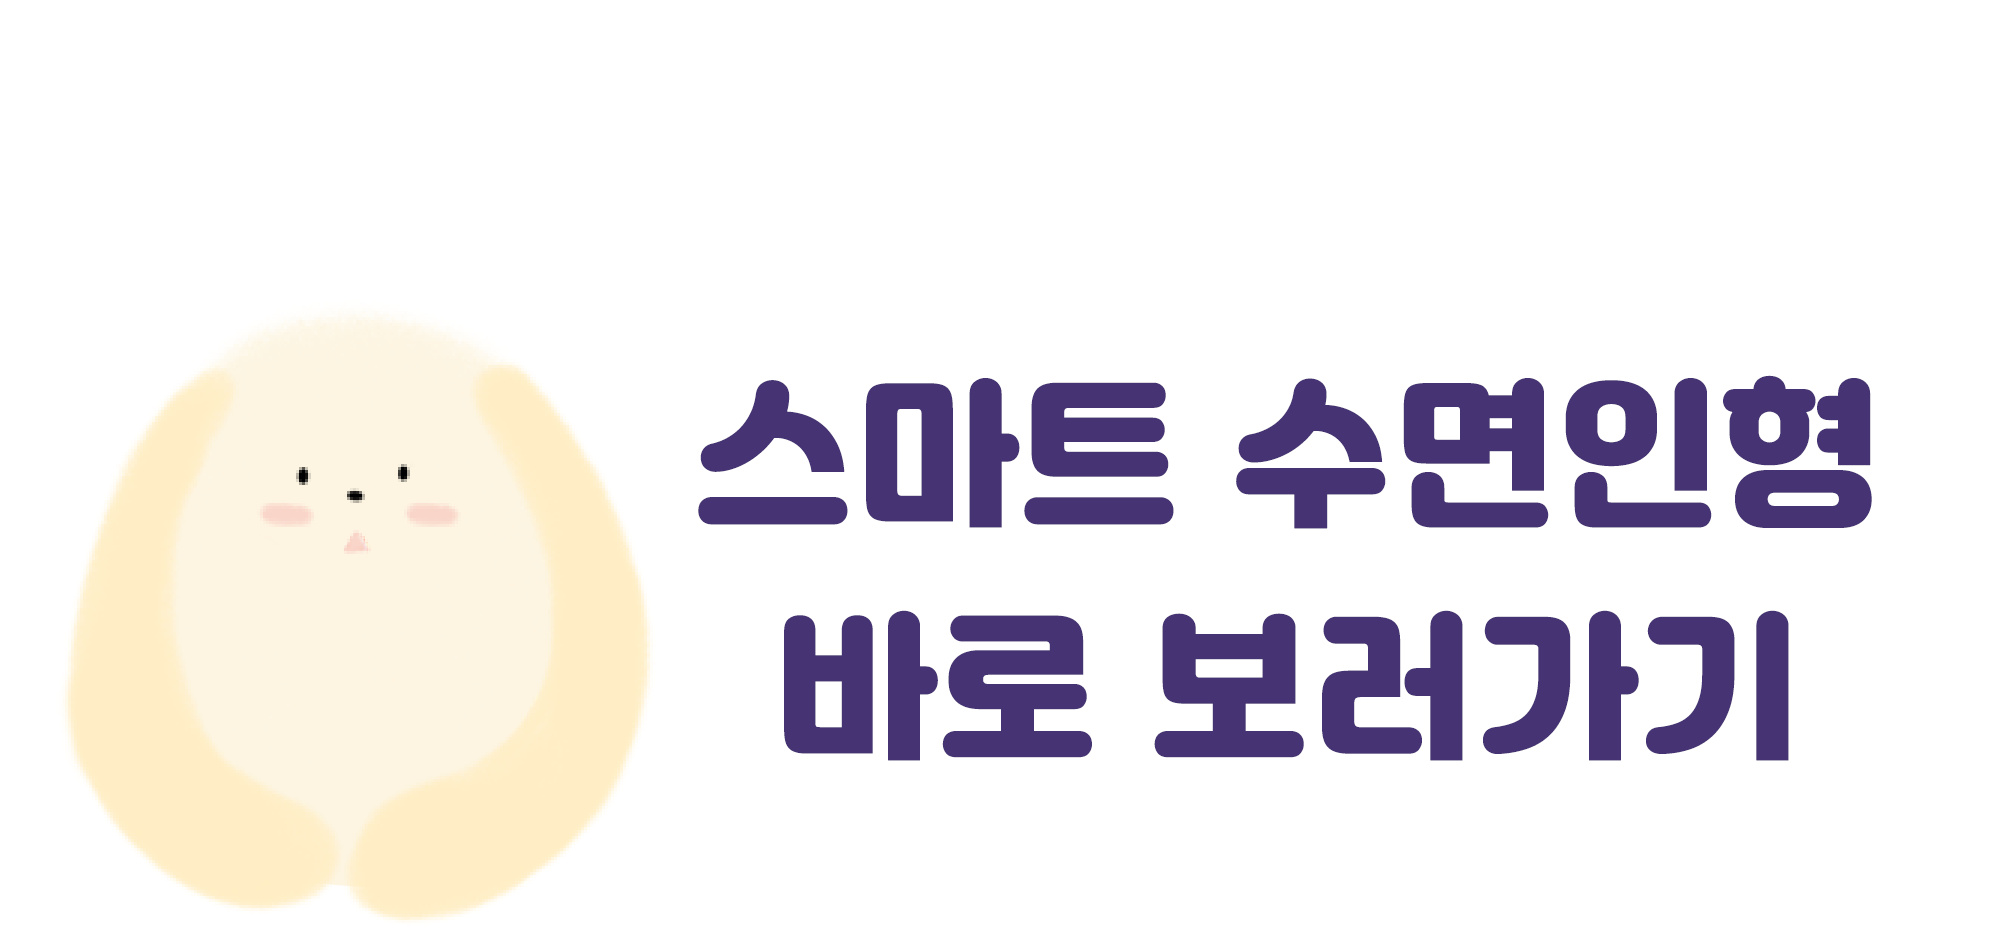
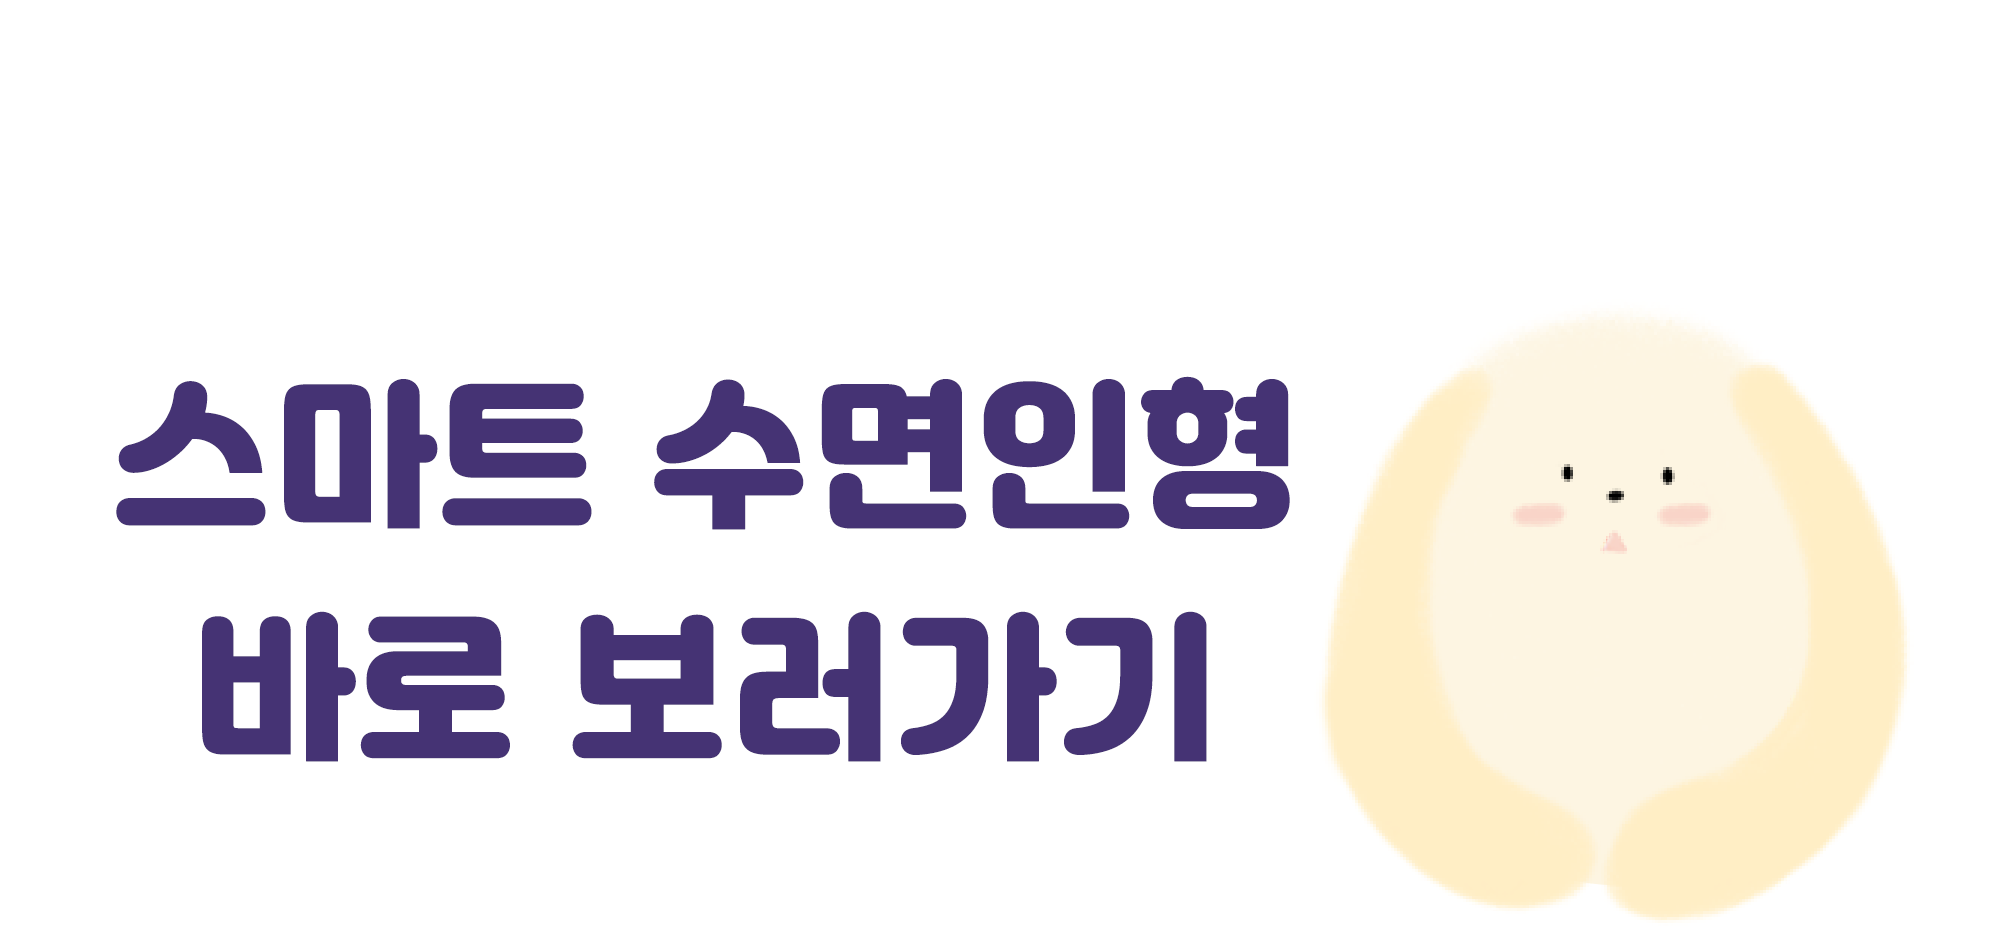
수정
1. 배경화면 jpg로 바꿈
2. 바로가기 위치 바꿈

diff --git a/static/css/index.css b/static/css/index.css
@@ -1086,7 +1086,7 @@ footer p {
 
 .gotodozy {
     position: absolute;
-    right: 0;
+    left: 0;
     top: 150px;
 }
 
@@ -1100,7 +1100,7 @@ footer p {
 
 .gotoimg {
     position: absolute;
-    right: 0;
+    left: 0;
     top: 300px;
 }
 
